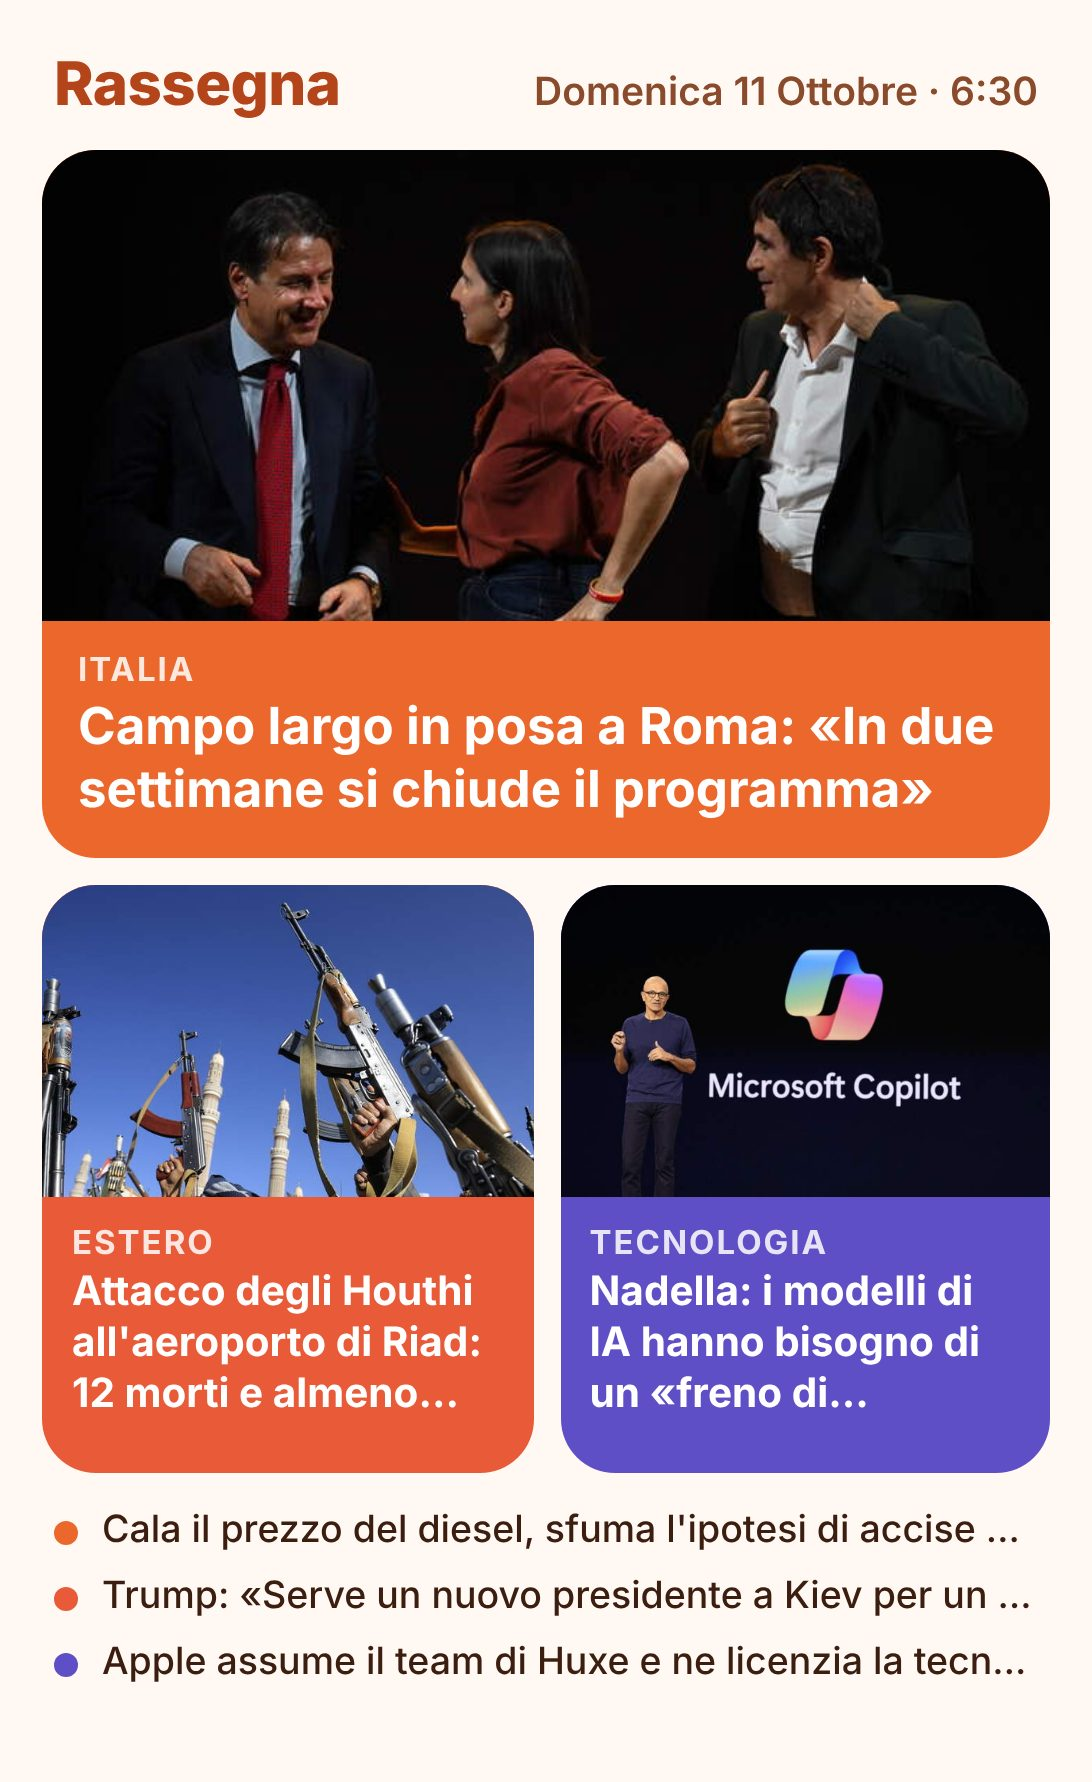
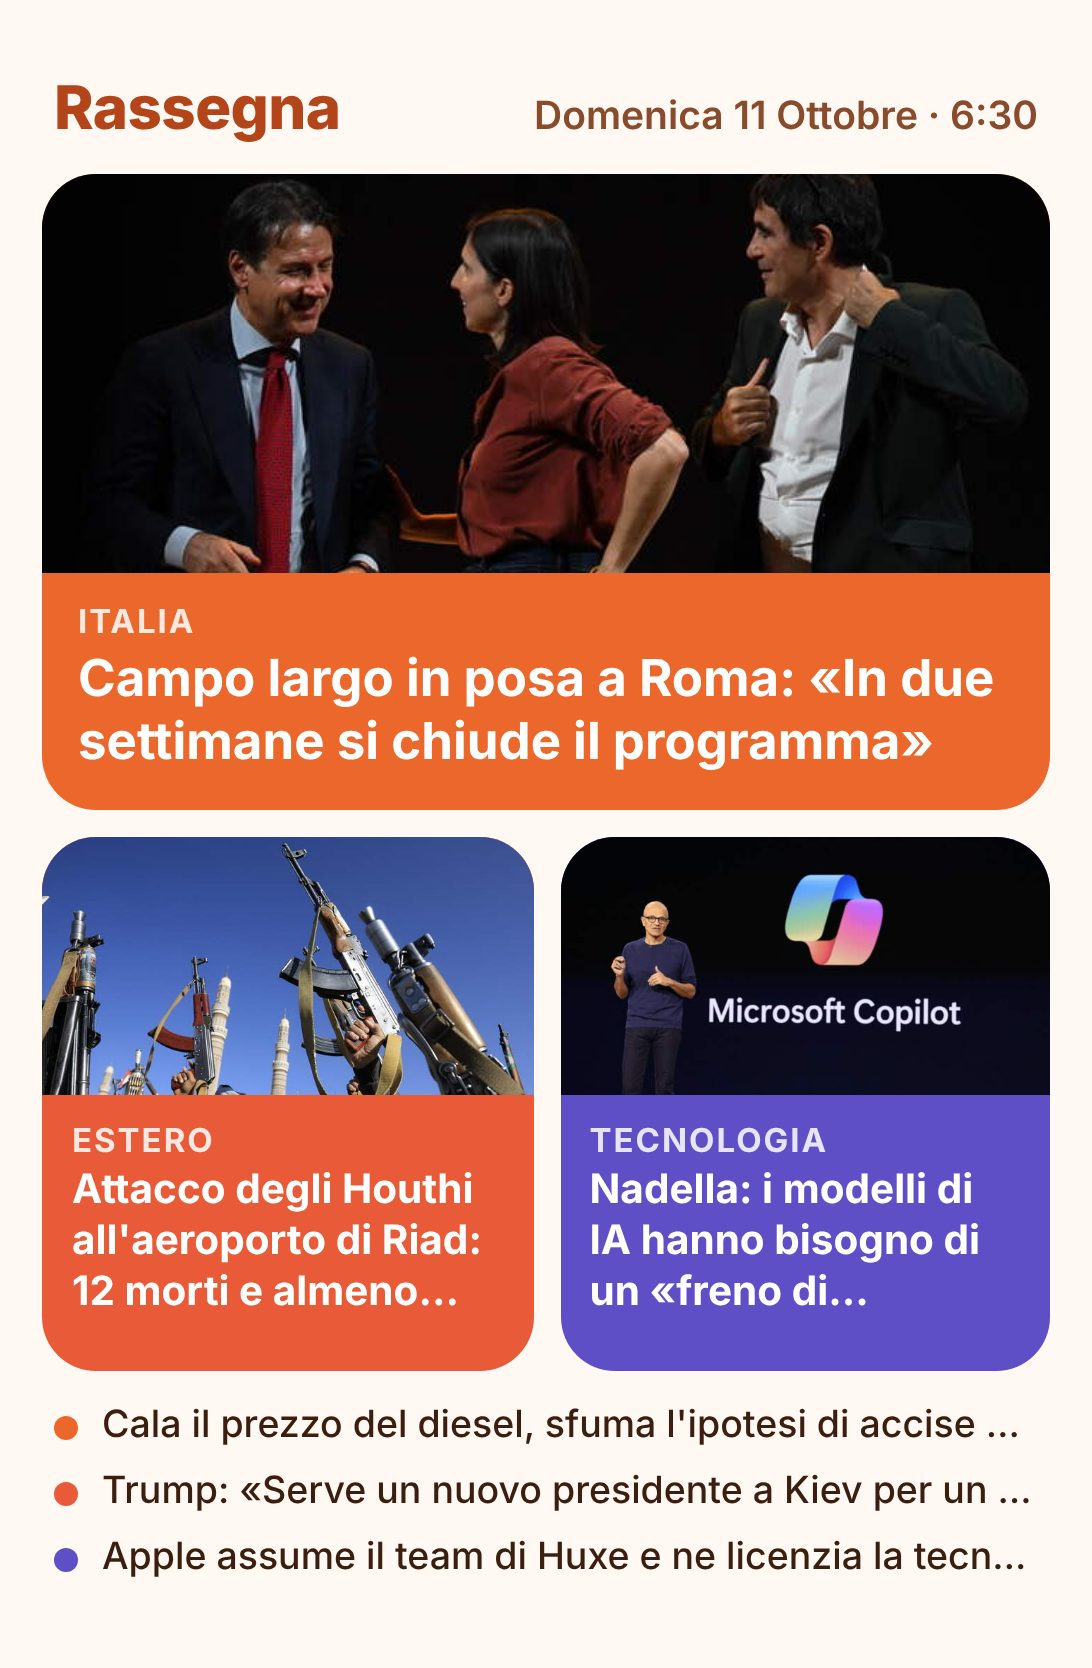
Widget: proporzioni del widget XL reale e piu' margine in alto
Claude-Session: https://claude.ai/code/session_01ShZy3BHgHaoR9F7EHiCJp1

Changed region(s): [[0.0311, 0.0312, 0.9652, 0.9664], [0.3736, 0.9041, 0.4048, 0.9353]]

diff --git a/make_widget.py b/make_widget.py
@@ -16,8 +16,8 @@ from pathlib import Path
 from bs4 import BeautifulSoup
 from playwright.sync_api import sync_playwright
 
-# Widget XL su iPhone: 364 x 594 punti (4x6 slot). Render a 3x -> 1092 x 1782 px.
-W, H, SCALE = 364, 594, 3
+# Proporzioni misurate sul widget XL reale (circa 0,655). Render a 3x -> 1092 x 1668 px.
+W, H, SCALE = 364, 556, 3
 
 SECTIONS = [("i", "Italia", "#EC672C", "#F0864C"),
             ("e", "Estero", "#E85A38", "#FF7A59"),
@@ -64,7 +64,7 @@ def build(date, data):
     return f"""<!doctype html><html><head><meta charset="utf-8"><style>
 *{{box-sizing:border-box;margin:0;padding:0}}
 html,body{{width:{W}px;height:{H}px;background:#FFF8F3;font-family:Inter,"DejaVu Sans",sans-serif;-webkit-font-smoothing:antialiased}}
-.wrap{{width:{W}px;height:{H}px;display:flex;flex-direction:column;padding:16px 14px 14px}}
+.wrap{{width:{W}px;height:{H}px;display:flex;flex-direction:column;padding:24px 14px 14px}}
 .head{{display:flex;justify-content:space-between;align-items:baseline;padding:0 4px 10px}}
 .brand{{font-size:20px;font-weight:800;color:#B4451A;letter-spacing:-.01em}}
 .date{{font-size:13px;font-weight:600;color:#8A4A2C}}
@@ -73,11 +73,11 @@ html,body{{width:{W}px;height:{H}px;background:#FFF8F3;font-family:Inter,"DejaVu
 .body{{padding:9px 12px 11px}}
 .tag{{font-size:11px;font-weight:700;opacity:.85;text-transform:uppercase;letter-spacing:.06em}}
 .big h2{{font-size:17px;line-height:1.25;font-weight:700;margin-top:3px;display:-webkit-box;-webkit-line-clamp:3;-webkit-box-orient:vertical;overflow:hidden}}
-.big{{height:236px}}
-.pair{{display:grid;grid-template-columns:1fr 1fr;gap:9px;margin-top:9px;height:196px}}
+.big{{height:212px}}
+.pair{{display:grid;grid-template-columns:1fr 1fr;gap:9px;margin-top:9px;height:178px}}
 .small h2{{font-size:13.5px;line-height:1.25;font-weight:700;margin-top:2px;display:-webkit-box;-webkit-line-clamp:3;-webkit-box-orient:vertical;overflow:hidden}}
 .small .body{{padding:8px 10px 10px;height:92px}}
-.rows{{margin-top:12px;display:flex;flex-direction:column;gap:7px;padding:0 4px}}
+.rows{{margin-top:11px;display:flex;flex-direction:column;gap:7px;padding:0 4px}}
 .row{{display:flex;align-items:center;gap:8px;font-size:12.5px;font-weight:500;color:#3B1E10}}
 .row span:last-child{{white-space:nowrap;overflow:hidden;text-overflow:ellipsis}}
 .dot{{width:8px;height:8px;border-radius:50%;flex:none}}

diff --git a/CLAUDE.md b/CLAUDE.md
@@ -26,7 +26,7 @@ aggiornati).
 ## Passaggio fisso: immagine per il widget XL di iOS
 
 Dopo aver scritto `index.html` del giorno, e prima del commit, eseguire
-`python3 make_widget.py`: rigenera `widget.jpg` (1092x1782, formato widget XL
+`python3 make_widget.py`: rigenera `widget.jpg` (1092x1668, formato widget XL
 4x6 di iOS 27) leggendo data, notizie principali e foto da `index.html`.
 Committare `widget.jpg` insieme a `index.html` e `template.html`.
 L'utente lo mostra sulla Home con l'app Widgy all'indirizzo
